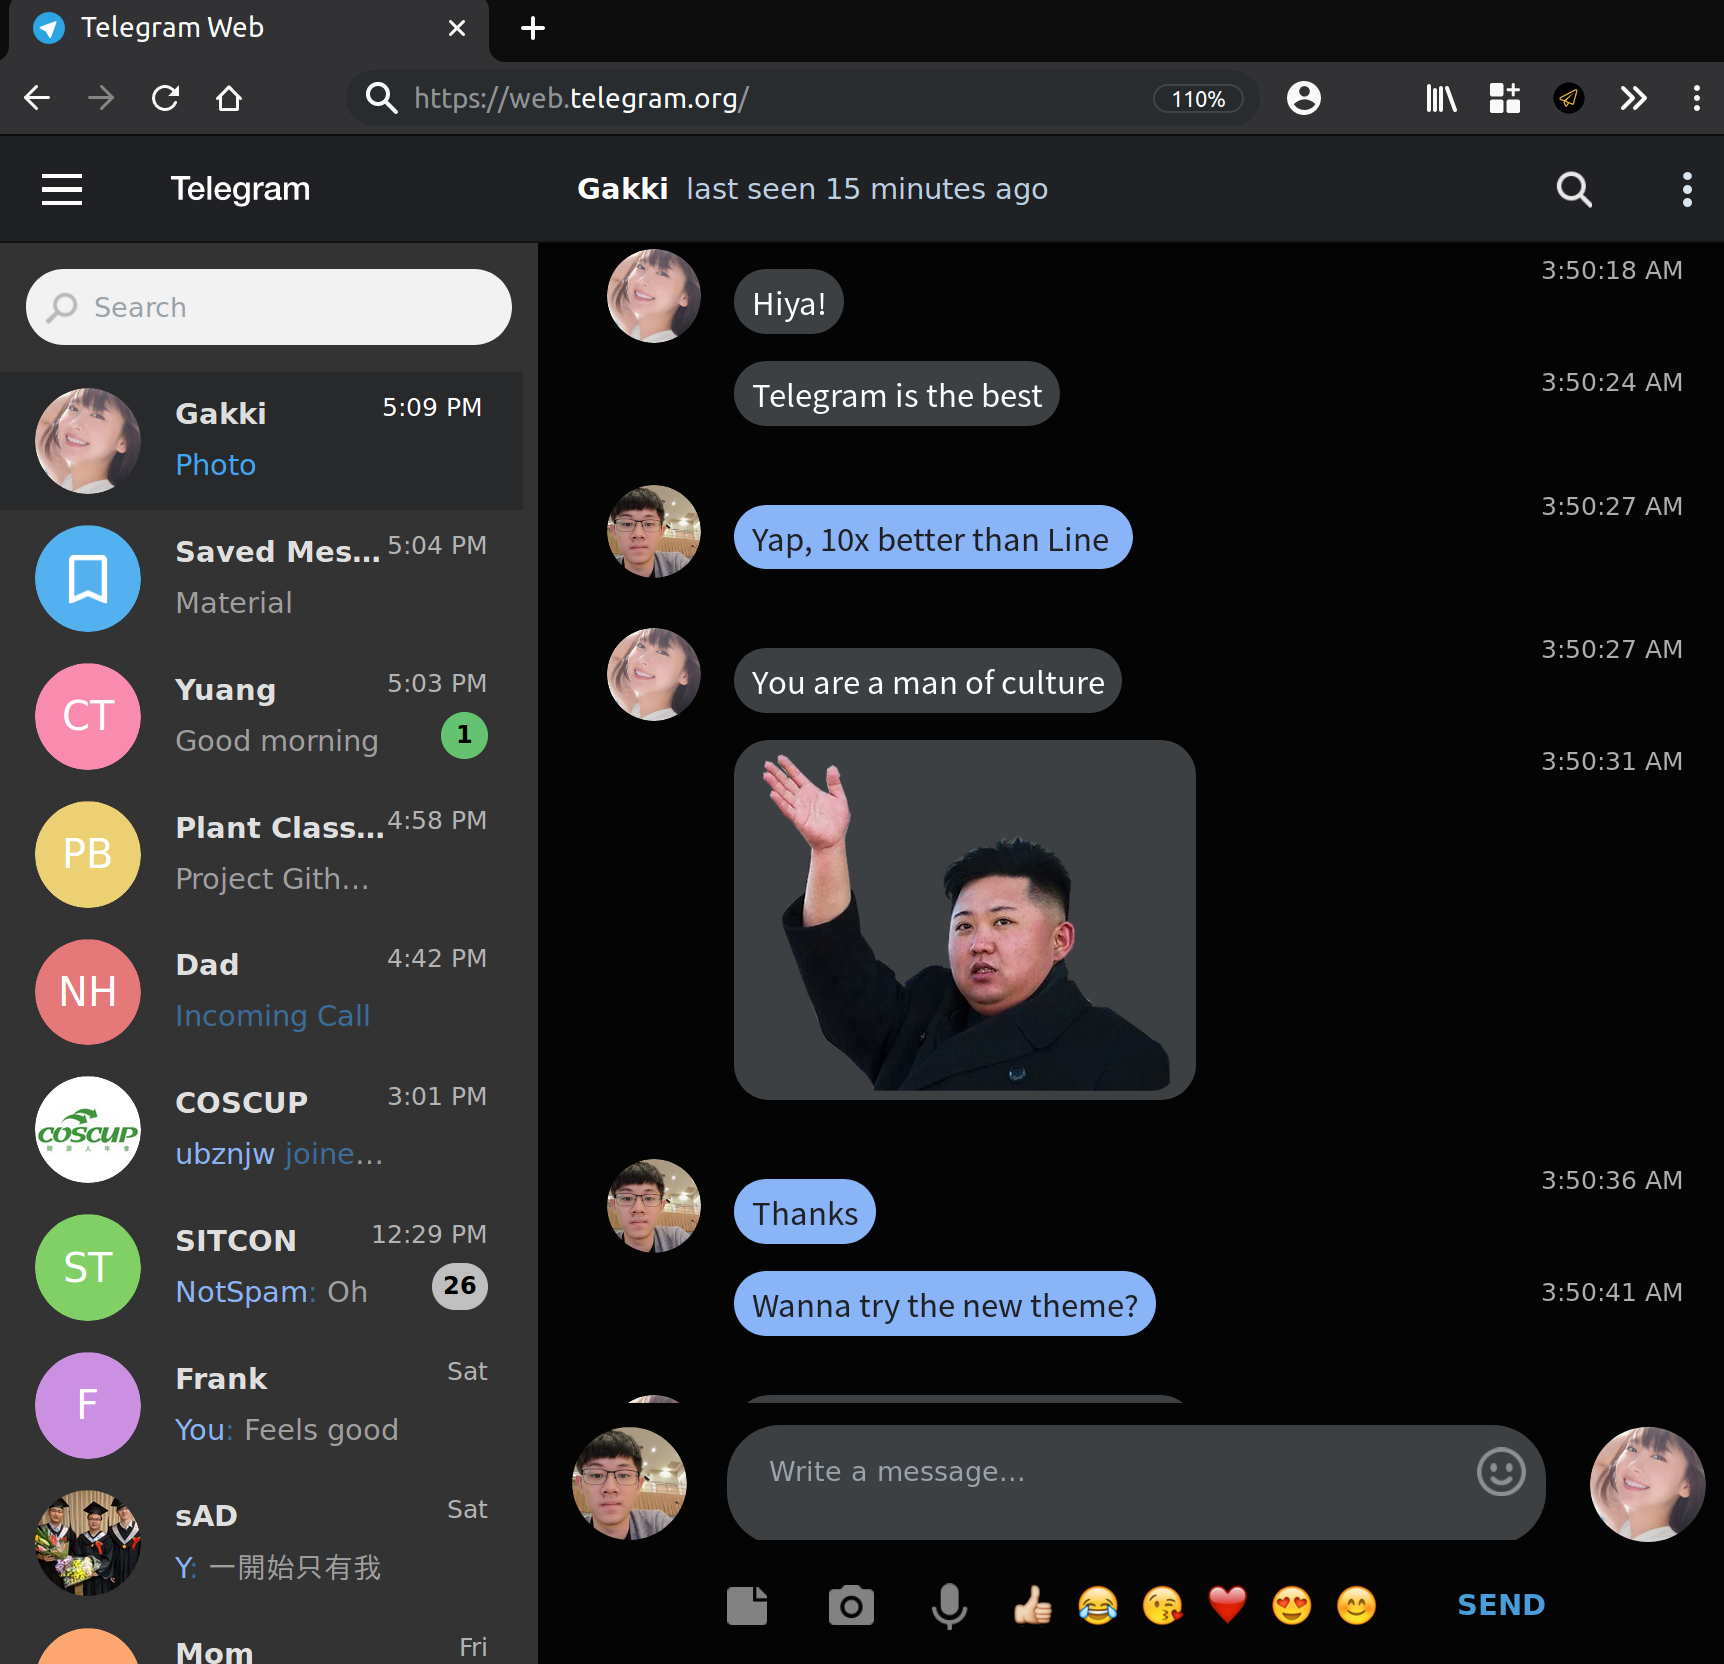
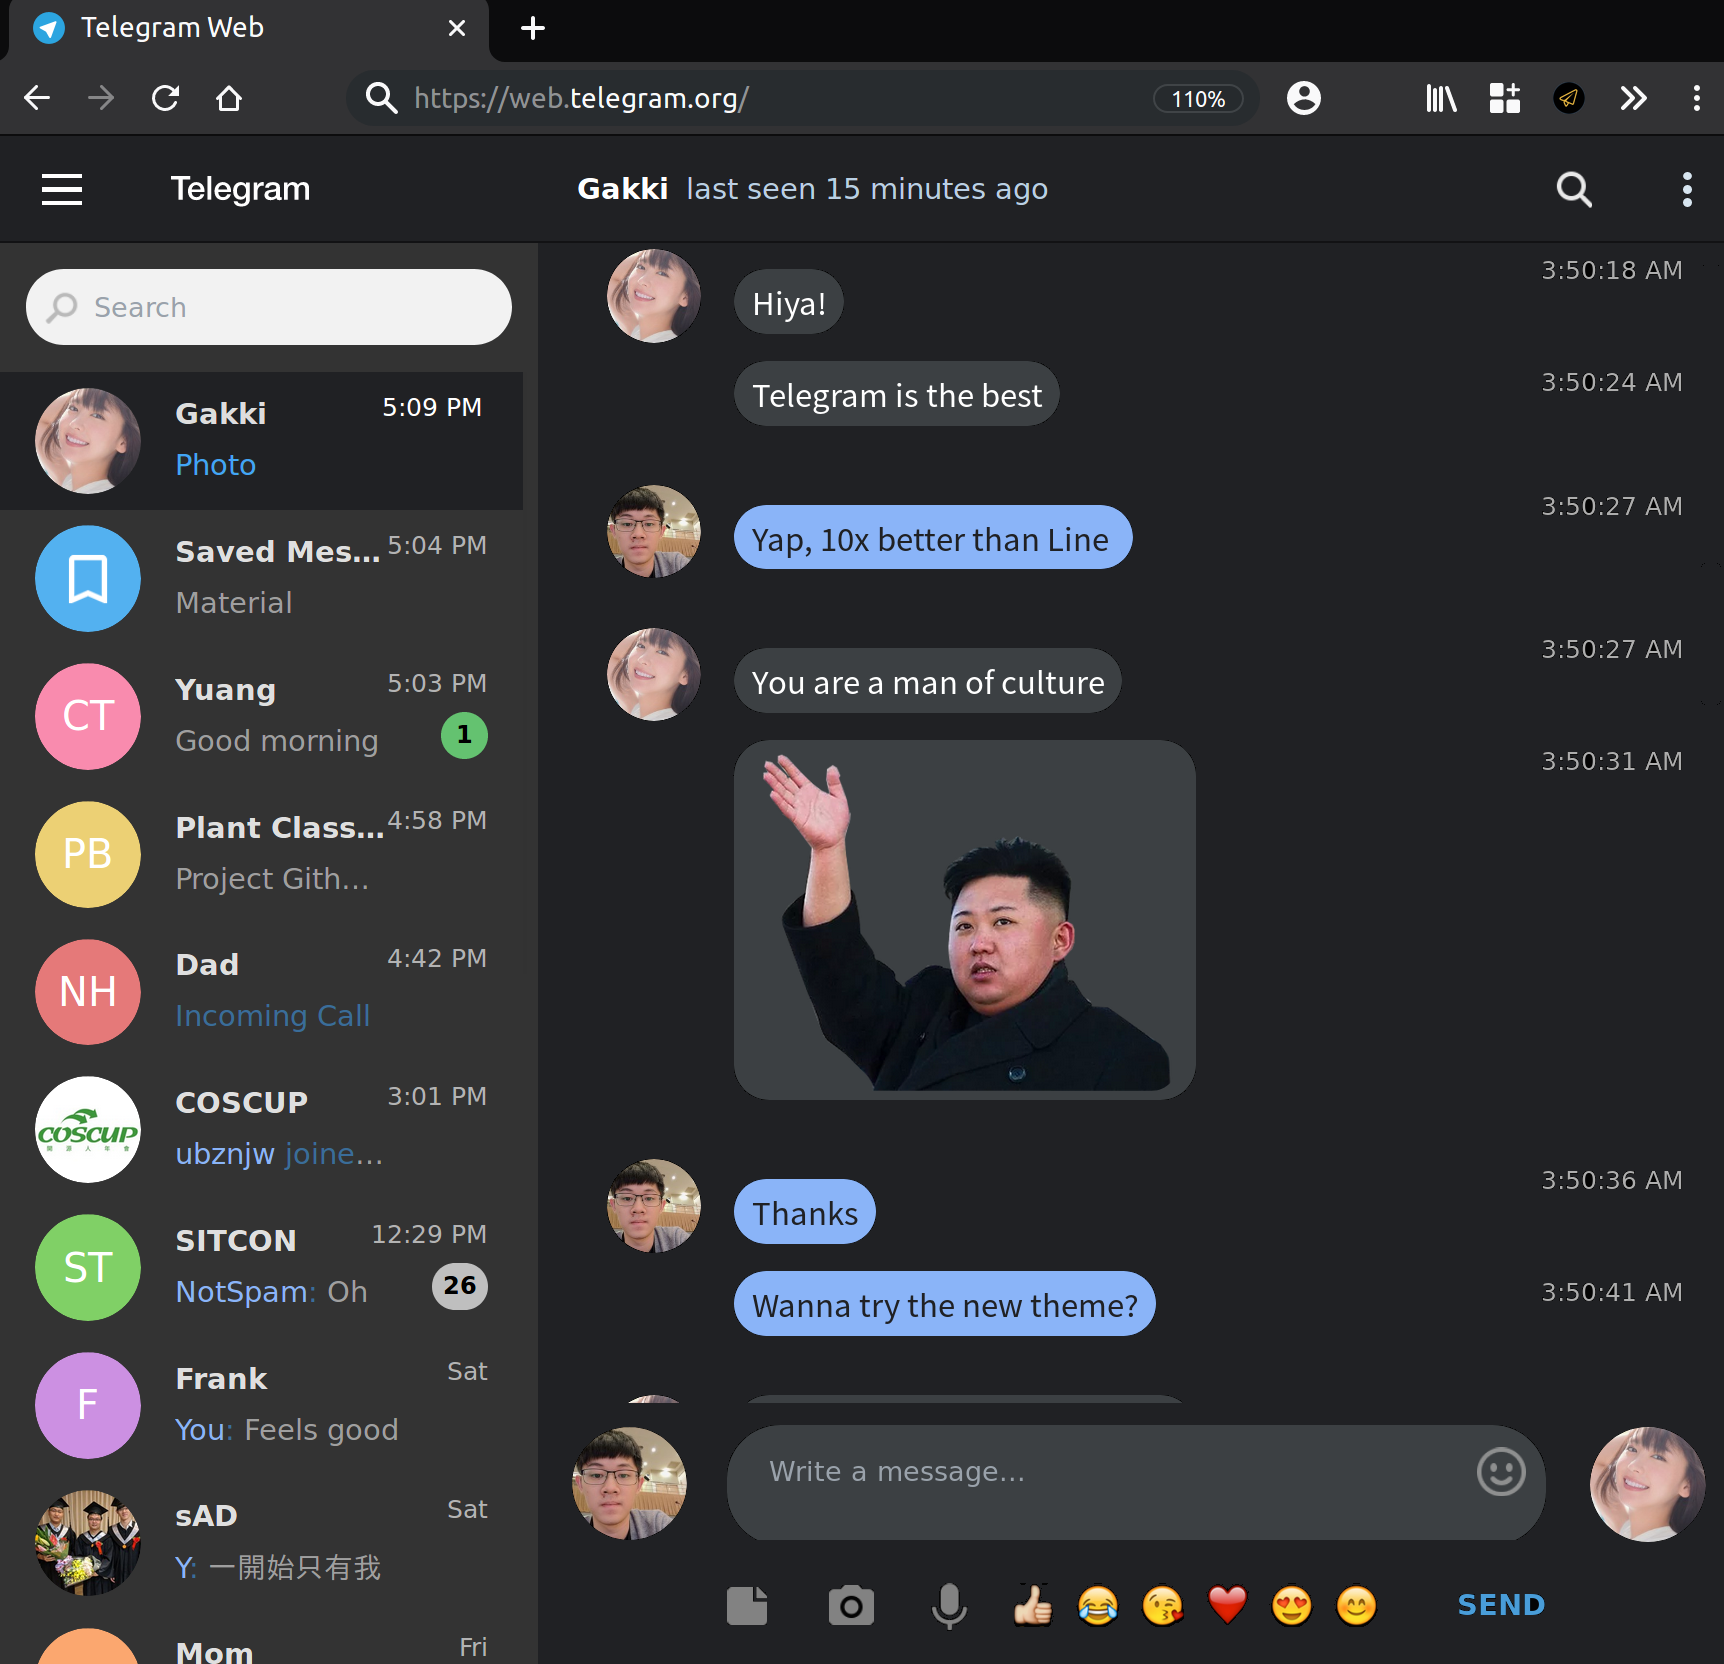
adjusted dark themes background color

diff --git a/material-theme.scss b/material-theme.scss
@@ -7,7 +7,7 @@ $dark-theme-blue: #8ab4f8;
 $light-theme-blue: #1E88E5;
 $dark-active-color: #f2f6fa;
 $light-active-color: rgb(236, 239, 241);
-$dark-bg-color: rgba(0,0,0,0.87);
+$dark-bg-color: #202124;
 $dark-header-color: #202124;
 $dark-header-split-color: rgba(0,0,0,0.45);
 $dark-msg-in-bg-color: #3c4043;
@@ -203,7 +203,7 @@ img.im_message_photo_thumb, img.im_message_video_thumb, div[ng-switch-when="stic
   }
 
   .im_history_selected_wrap, .im_page_wrap{
-    background-color:  $general-black;
+    background-color:  $dark-bg-color;
   }
   .tg_head_split {
     border-bottom: 1px $soft-black solid;

diff --git a/material-theme.css b/material-theme.css
@@ -169,7 +169,7 @@ img.im_message_photo_thumb, img.im_message_video_thumb, div[ng-switch-when=stick
   border-left: #333 solid !important;
 }
 .dark .im_history_selected_wrap, .dark .im_page_wrap {
-  background-color: rgba(0, 0, 0, 0.87);
+  background-color: #202124;
 }
 .dark .tg_head_split {
   border-bottom: 1px rgba(0, 0, 0, 0.45) solid;
